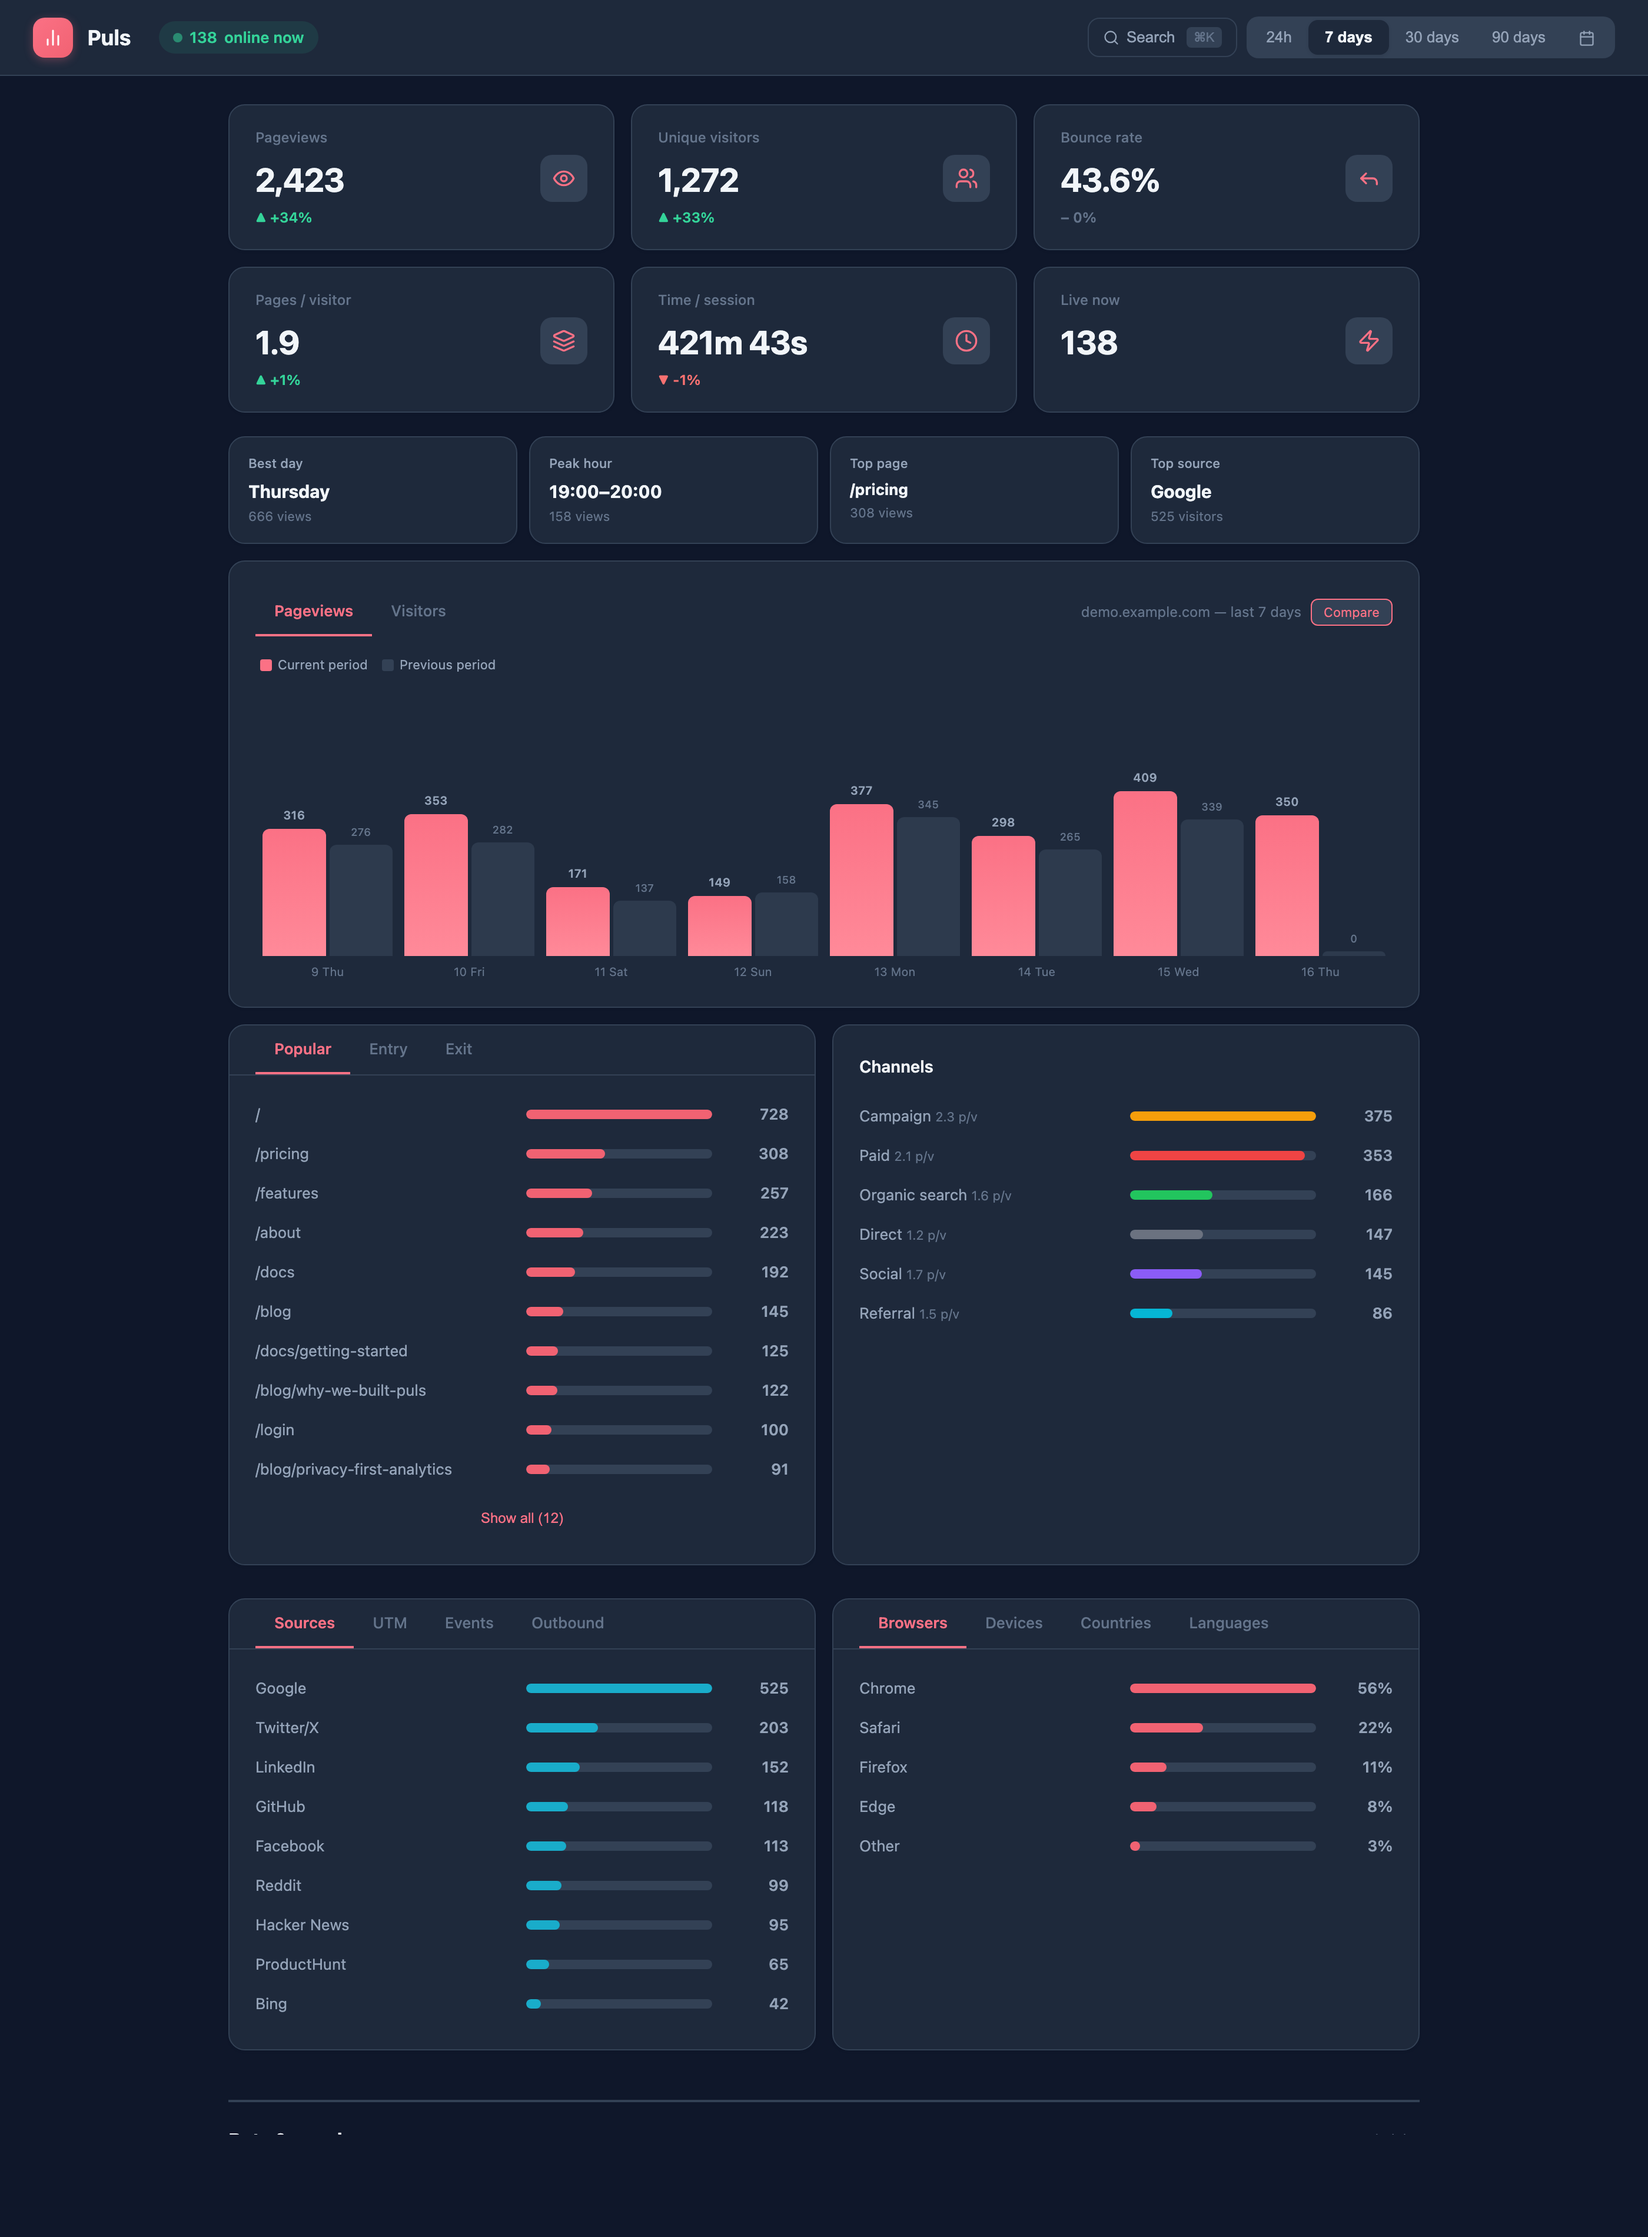
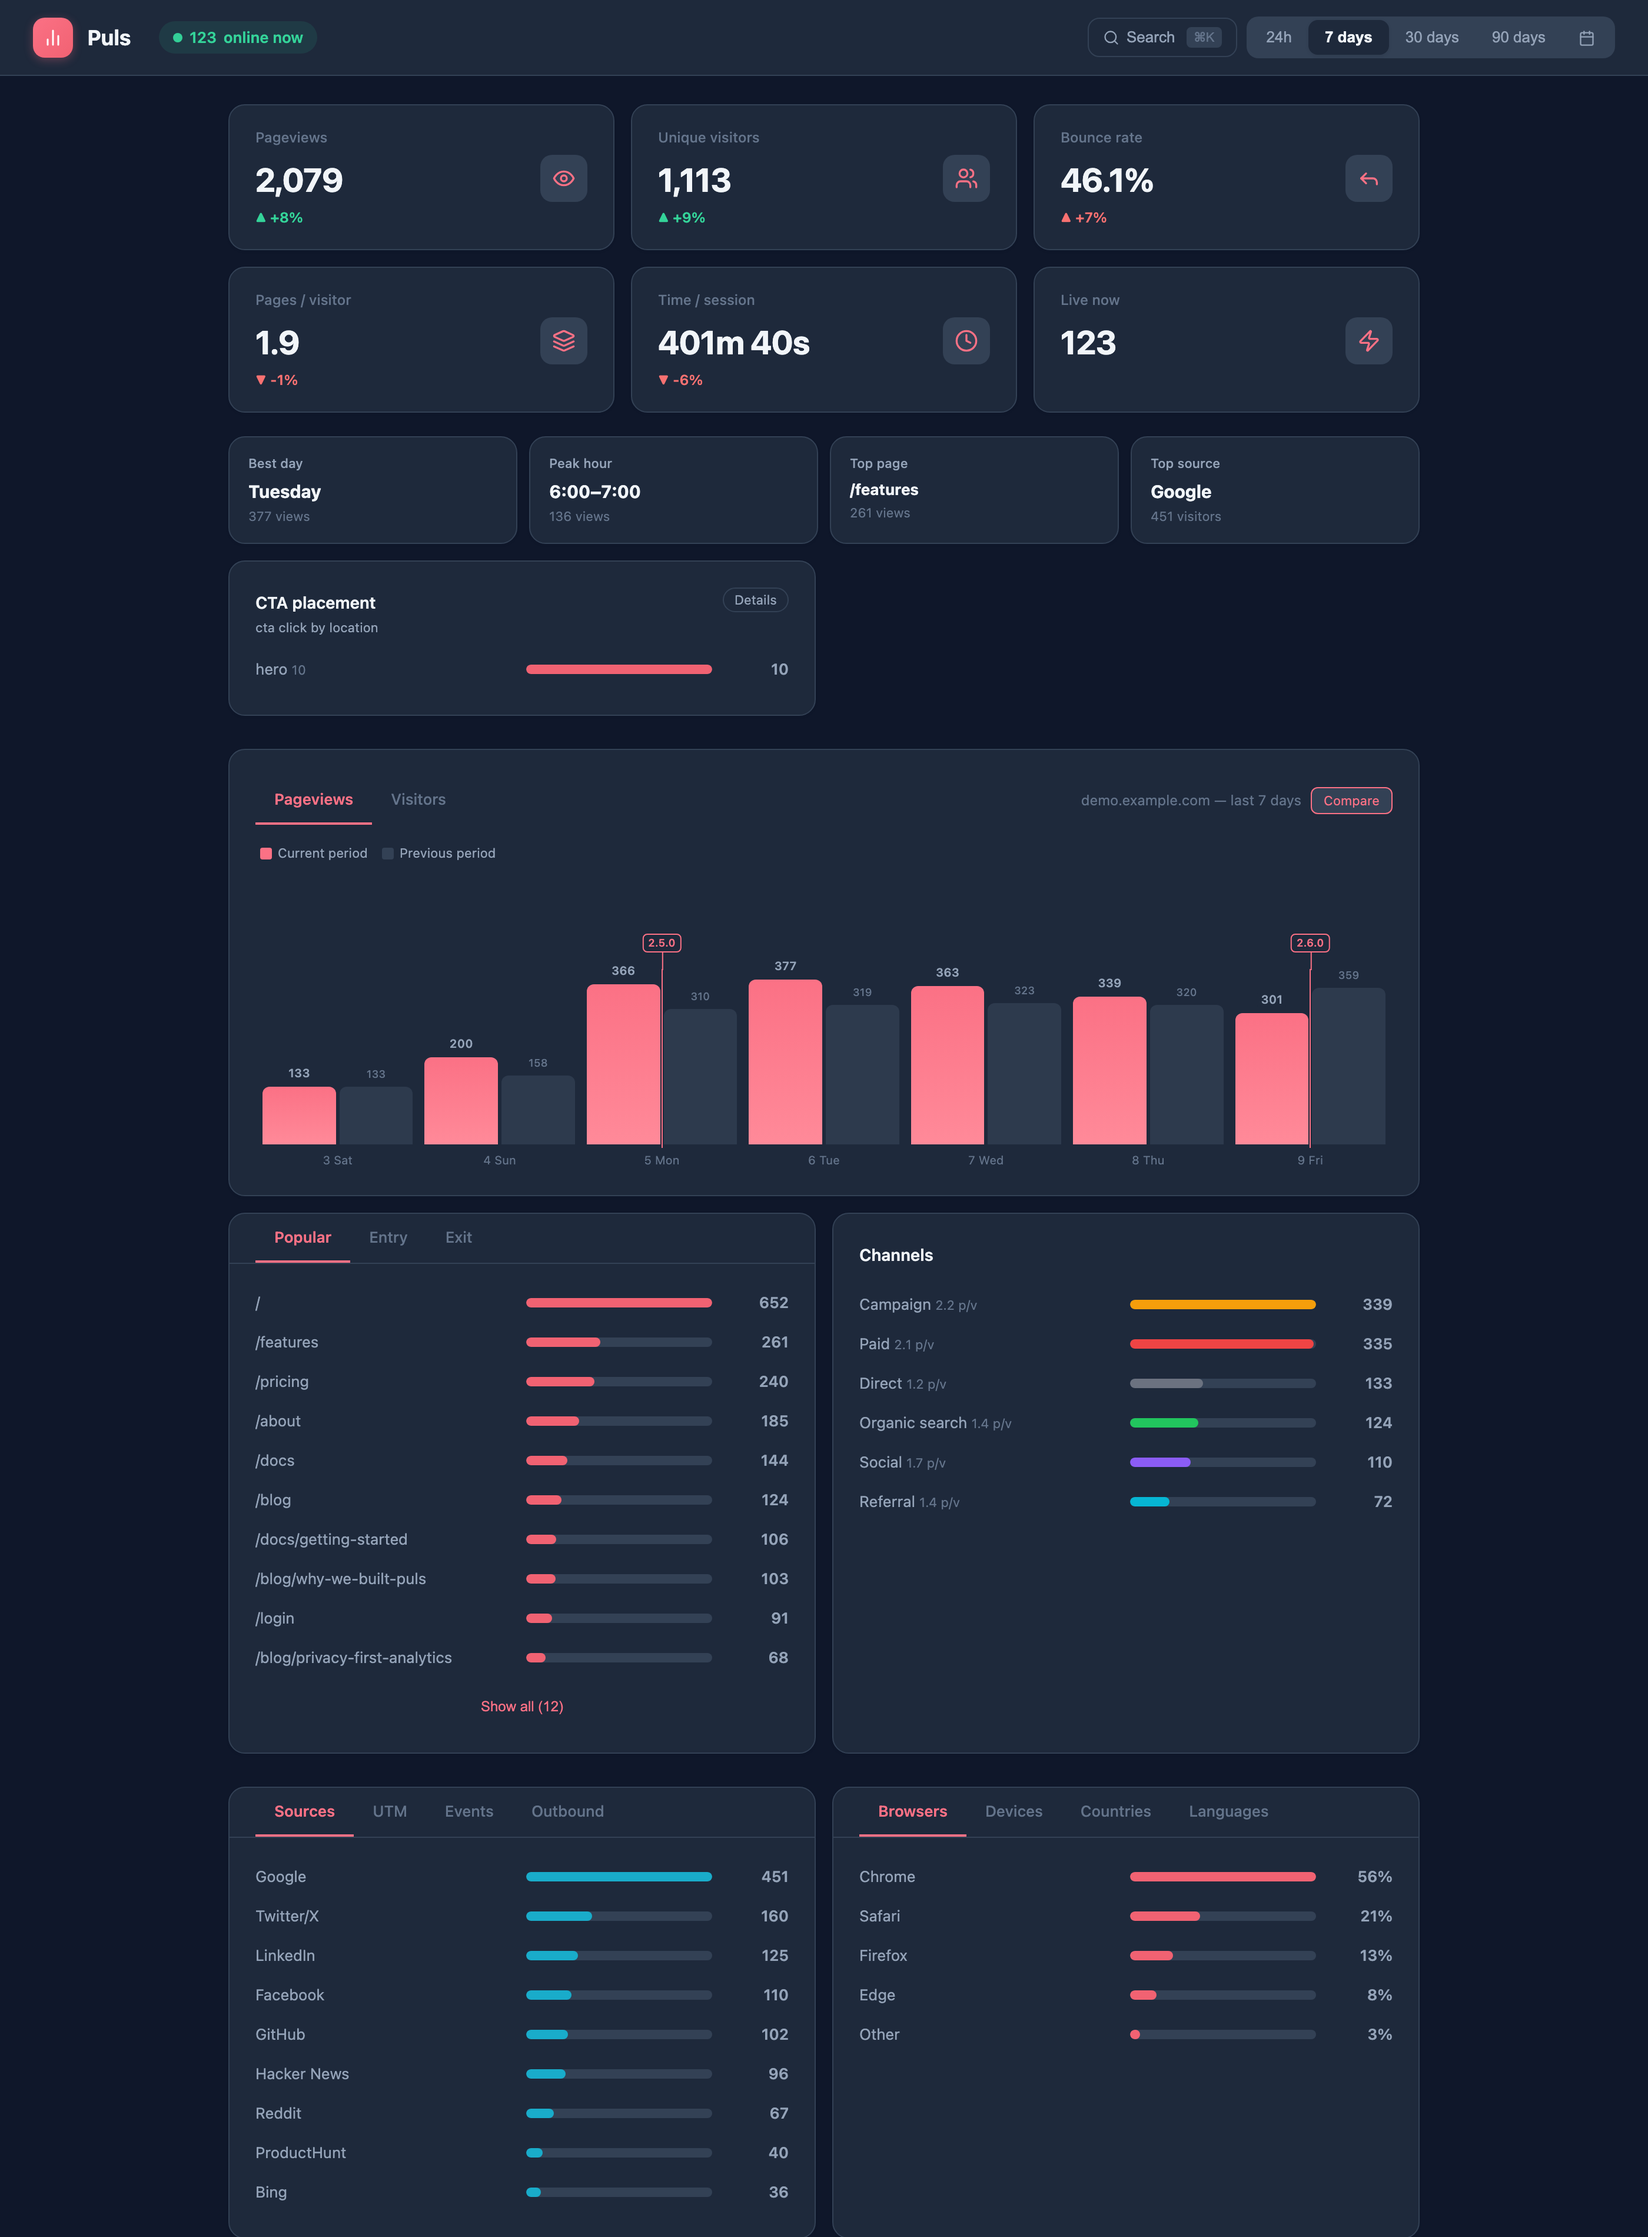
docs: regenerate screenshots with release markers and a saved card
screenshots.sh now migrates the seeded demo database and adds app
versions and a breakdown card before capturing, so the README shows
the newer dashboard features.

diff --git a/CHANGELOG.md b/CHANGELOG.md
@@ -7,7 +7,13 @@ and this project adheres to [Semantic Versioning](https://semver.org/).
 
 ## [Unreleased]
 
+### Fixed
+
+- Release markers on charts covered the bar's value when the bar was among the tallest, and the marker line ran through the date label. The label now sits above the value with a short stem down to the line, the value gets a background over the line, and the line stops above the date.
+
 ### Changed
+
+- README screenshots regenerated. `scripts/screenshots.sh` runs the migrations on the seeded demo database and adds app versions and a saved card, so release markers and breakdown cards show.
 
 - Feature tests run against a fresh database and users file in a temp directory per run, instead of the database configured in `.env`. Tests no longer leave rows in a local database or depend on rows from earlier runs, and test temp files are removed afterwards.
 
